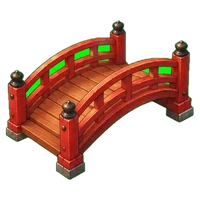
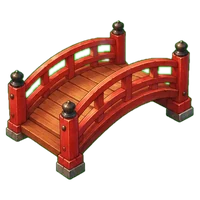
Testversjonen av Koi Garden: pynten står rett, speiler seg i dammen
Kopiert fra mentalblock (claude/great-goodall-71hm3e, 5b59236).

Claude-Session: https://claude.ai/code/session_015aH6A6tyQkWEdsLV5GNixP

diff --git a/koi-garden/play/js/game/shop.js b/koi-garden/play/js/game/shop.js
@@ -32,19 +32,19 @@ function shopTile(tab, id) {
     // The same preview as the board itself: four beds with stones on them
     const item = STYLE_KINDS[tab].find(x => x.id === id);
     buying = confirm ? id : null;
-    return styleTile(tab, item).replace("style-tile", "style-tile shop-item");
+    return styleTile(tab, item).replace("style-tile", "style-tile store-item");
   }
   if (tab === "pond") {
     const d = POND_DECOR.find(x => x.id === id), owned = decorOwned(d), shown = decorShown(d);
     const status = owned ? (shown ? "In your pond" : "Hidden · tap to show") : confirm ? "Tap again to buy" : price(d.price);
-    return `<button class="shop-item pond-tile${owned ? " owned" : ""}${shown ? " on" : ""}${confirm ? " confirm" : ""}${!owned && journey.pearls < d.price ? " short" : ""}" data-id="${id}">`
+    return `<button class="store-item pond-tile${owned ? " owned" : ""}${shown ? " on" : ""}${confirm ? " confirm" : ""}${!owned && journey.pearls < d.price ? " short" : ""}" data-id="${id}">`
       + `<span class="pic"><img src="${d.img}" alt=""></span><b>${d.name}</b><small>${status}</small></button>`;
   }
   const M = MOODS[id], own = moodOwned(id), on = (audio.mood || "garden") === id && !previewMood, hear = previewMood === id;
   const status = on ? (audio.musicOn ? "Playing" : "Chosen · music is off") : own ? "Tap to play"
     : hear ? (journey.pearls >= M.price ? "Listening · tap again to buy" : `Listening · ${M.price - journey.pearls} more pearls`)
     : `${price(M.price)} · tap to listen`;
-  return `<button class="shop-item music-tile${own ? " owned" : ""}${on ? " on" : ""}${hear ? " confirm hear" : ""}" data-id="${id}">`
+  return `<button class="store-item music-tile${own ? " owned" : ""}${on ? " on" : ""}${hear ? " confirm hear" : ""}" data-id="${id}">`
     + `<span class="note" aria-hidden="true">♪</span><b>${M.name}</b><span class="about">${M.about}</span><small>${status}</small></button>`;
 }
 function paintShop() {
@@ -94,7 +94,7 @@ $("shopTabs").addEventListener("click", e => {
 // A bought thing: a burst of gold on its tile and a pulse of the pearl count
 function shopCelebrate(tab, id) {
   paintShop();
-  const tile = $("shopBody").querySelector(`.shop-item[data-id="${id}"]`);
+  const tile = $("shopBody").querySelector(`.store-item[data-id="${id}"]`);
   if (tile) { const r = tile.getBoundingClientRect(); sparkBurst(r.left + r.width / 2, r.top + r.height * 0.4, 26); }
   restartClass($("shopPearls"), "bump");
   bowl(6, 0.05);
@@ -102,7 +102,7 @@ function shopCelebrate(tab, id) {
 }
 function shopShort(id, need) {
   paintShop();
-  const tile = $("shopBody").querySelector(`.shop-item[data-id="${id}"]`);
+  const tile = $("shopBody").querySelector(`.store-item[data-id="${id}"]`);
   if (!tile) return;
   if (need > 0) tile.querySelector("small").textContent = `${need} more pearls needed`;
   restartClass(tile, "nope");
@@ -118,7 +118,7 @@ function shopAsk(key) {
 }
 $("shopBody").addEventListener("click", e => {
   if (e.target.closest("#shopVisitPond")) { shopView.hidden = true; openPond(() => openShop("pond", shopReturn)); return; }
-  const t = e.target.closest(".shop-item");
+  const t = e.target.closest(".store-item");
   if (!t) return;
   const id = t.dataset.id, key = `${shopTab}:${id}`, again = shopBuying === key;
   if (shopTab === "board" || shopTab === "stones") {

diff --git a/koi-garden/play/js/game/pond.js b/koi-garden/play/js/game/pond.js
@@ -257,6 +257,30 @@ function drawDecor(c, floating, t) {
     c.restore();
   });
 }
+// Standing things are mirrored in the water under them, softly and a little rippled, so they stand in the pond
+// instead of floating over it. Drawn on the surface: over the koi, under the lily pads and floating things.
+function drawReflections(c, t) {
+  decorPieces(false).forEach(p => {
+    const im = decorImage(p.d);
+    if (!im.complete || !im.naturalWidth) return;
+    const base = p.y + p.s * 0.44;
+    c.save();
+    c.globalAlpha = isNight() ? 0.16 : 0.22;
+    // Thin horizontal slices, each nudged sideways a little, the way ripples break up a reflection
+    const slices = 10, sh = p.s / slices;
+    for (let k = 0; k < slices; k++) {
+      const sy = (k / slices) * im.naturalHeight, sH = im.naturalHeight / slices;
+      const dy = base + (slices - 1 - k) * sh * 0.5;
+      const wob = Math.sin(t * 1.3 + k * 0.9 + p.k) * p.s * 0.012 * (1 + (slices - k) / slices);
+      c.save();
+      c.translate(p.x + wob, dy + sh * 0.5);
+      c.scale(1, -0.5);
+      c.drawImage(im, 0, sy, im.naturalWidth, sH, -p.s / 2, -sh / 2, p.s, sh);
+      c.restore();
+    }
+    c.restore();
+  });
+}
 function paintPondShop() {
   $("pondBank").querySelector("b").textContent = journey.pearls;
   $("pondGrid").innerHTML = POND_DECOR.map(d => {
@@ -337,6 +361,7 @@ function drawPond() {
   drawFish(pc, pondFish, 0.97, isNight() ? 0.2 : 0.3, isNight() ? ["#16205a", 0.2] : null);
   // Moonlight lies on the surface: over the koi, under the floating pads
   drawMoonlight(pc, W, H, t, 1);
+  drawReflections(pc, t);
   pads.forEach(p => drawPad(pc, p));
   // Your decorations: floating ones on the water, then the ones standing in it
   drawDecor(pc, true, t);

diff --git a/koi-garden/play/css/style.css b/koi-garden/play/css/style.css
@@ -2674,9 +2674,9 @@ html.big { font-size: 120%; }
 .shop-intro { margin: 0 2px 12px; font-size: 0.82rem; line-height: 1.45; color: var(--card-muted); }
 .shop-grid { display: grid; grid-template-columns: 1fr 1fr; gap: 10px; }
 .shop-grid.grid-pond { grid-template-columns: repeat(3, 1fr); gap: 8px; }
-.shop-item { position: relative; }
-.shop-item small { display: inline-flex; align-items: center; justify-content: center; gap: 3px; flex-wrap: wrap; text-align: center; }
-.shop-item.nope { animation: nope 0.3s ease-in-out; }
+.store-item { position: relative; }
+.store-item small { display: inline-flex; align-items: center; justify-content: center; gap: 3px; flex-wrap: wrap; text-align: center; }
+.store-item.nope { animation: nope 0.3s ease-in-out; }
 /* Pond decorations: the picture on a little patch of water */
 .pond-tile { display: flex; flex-direction: column; align-items: center; gap: 2px; padding: 8px 4px 8px; border-radius: 14px; border: 2px solid var(--card-line);
   background: var(--card-well); color: var(--card-fg); font: inherit; cursor: pointer; }
